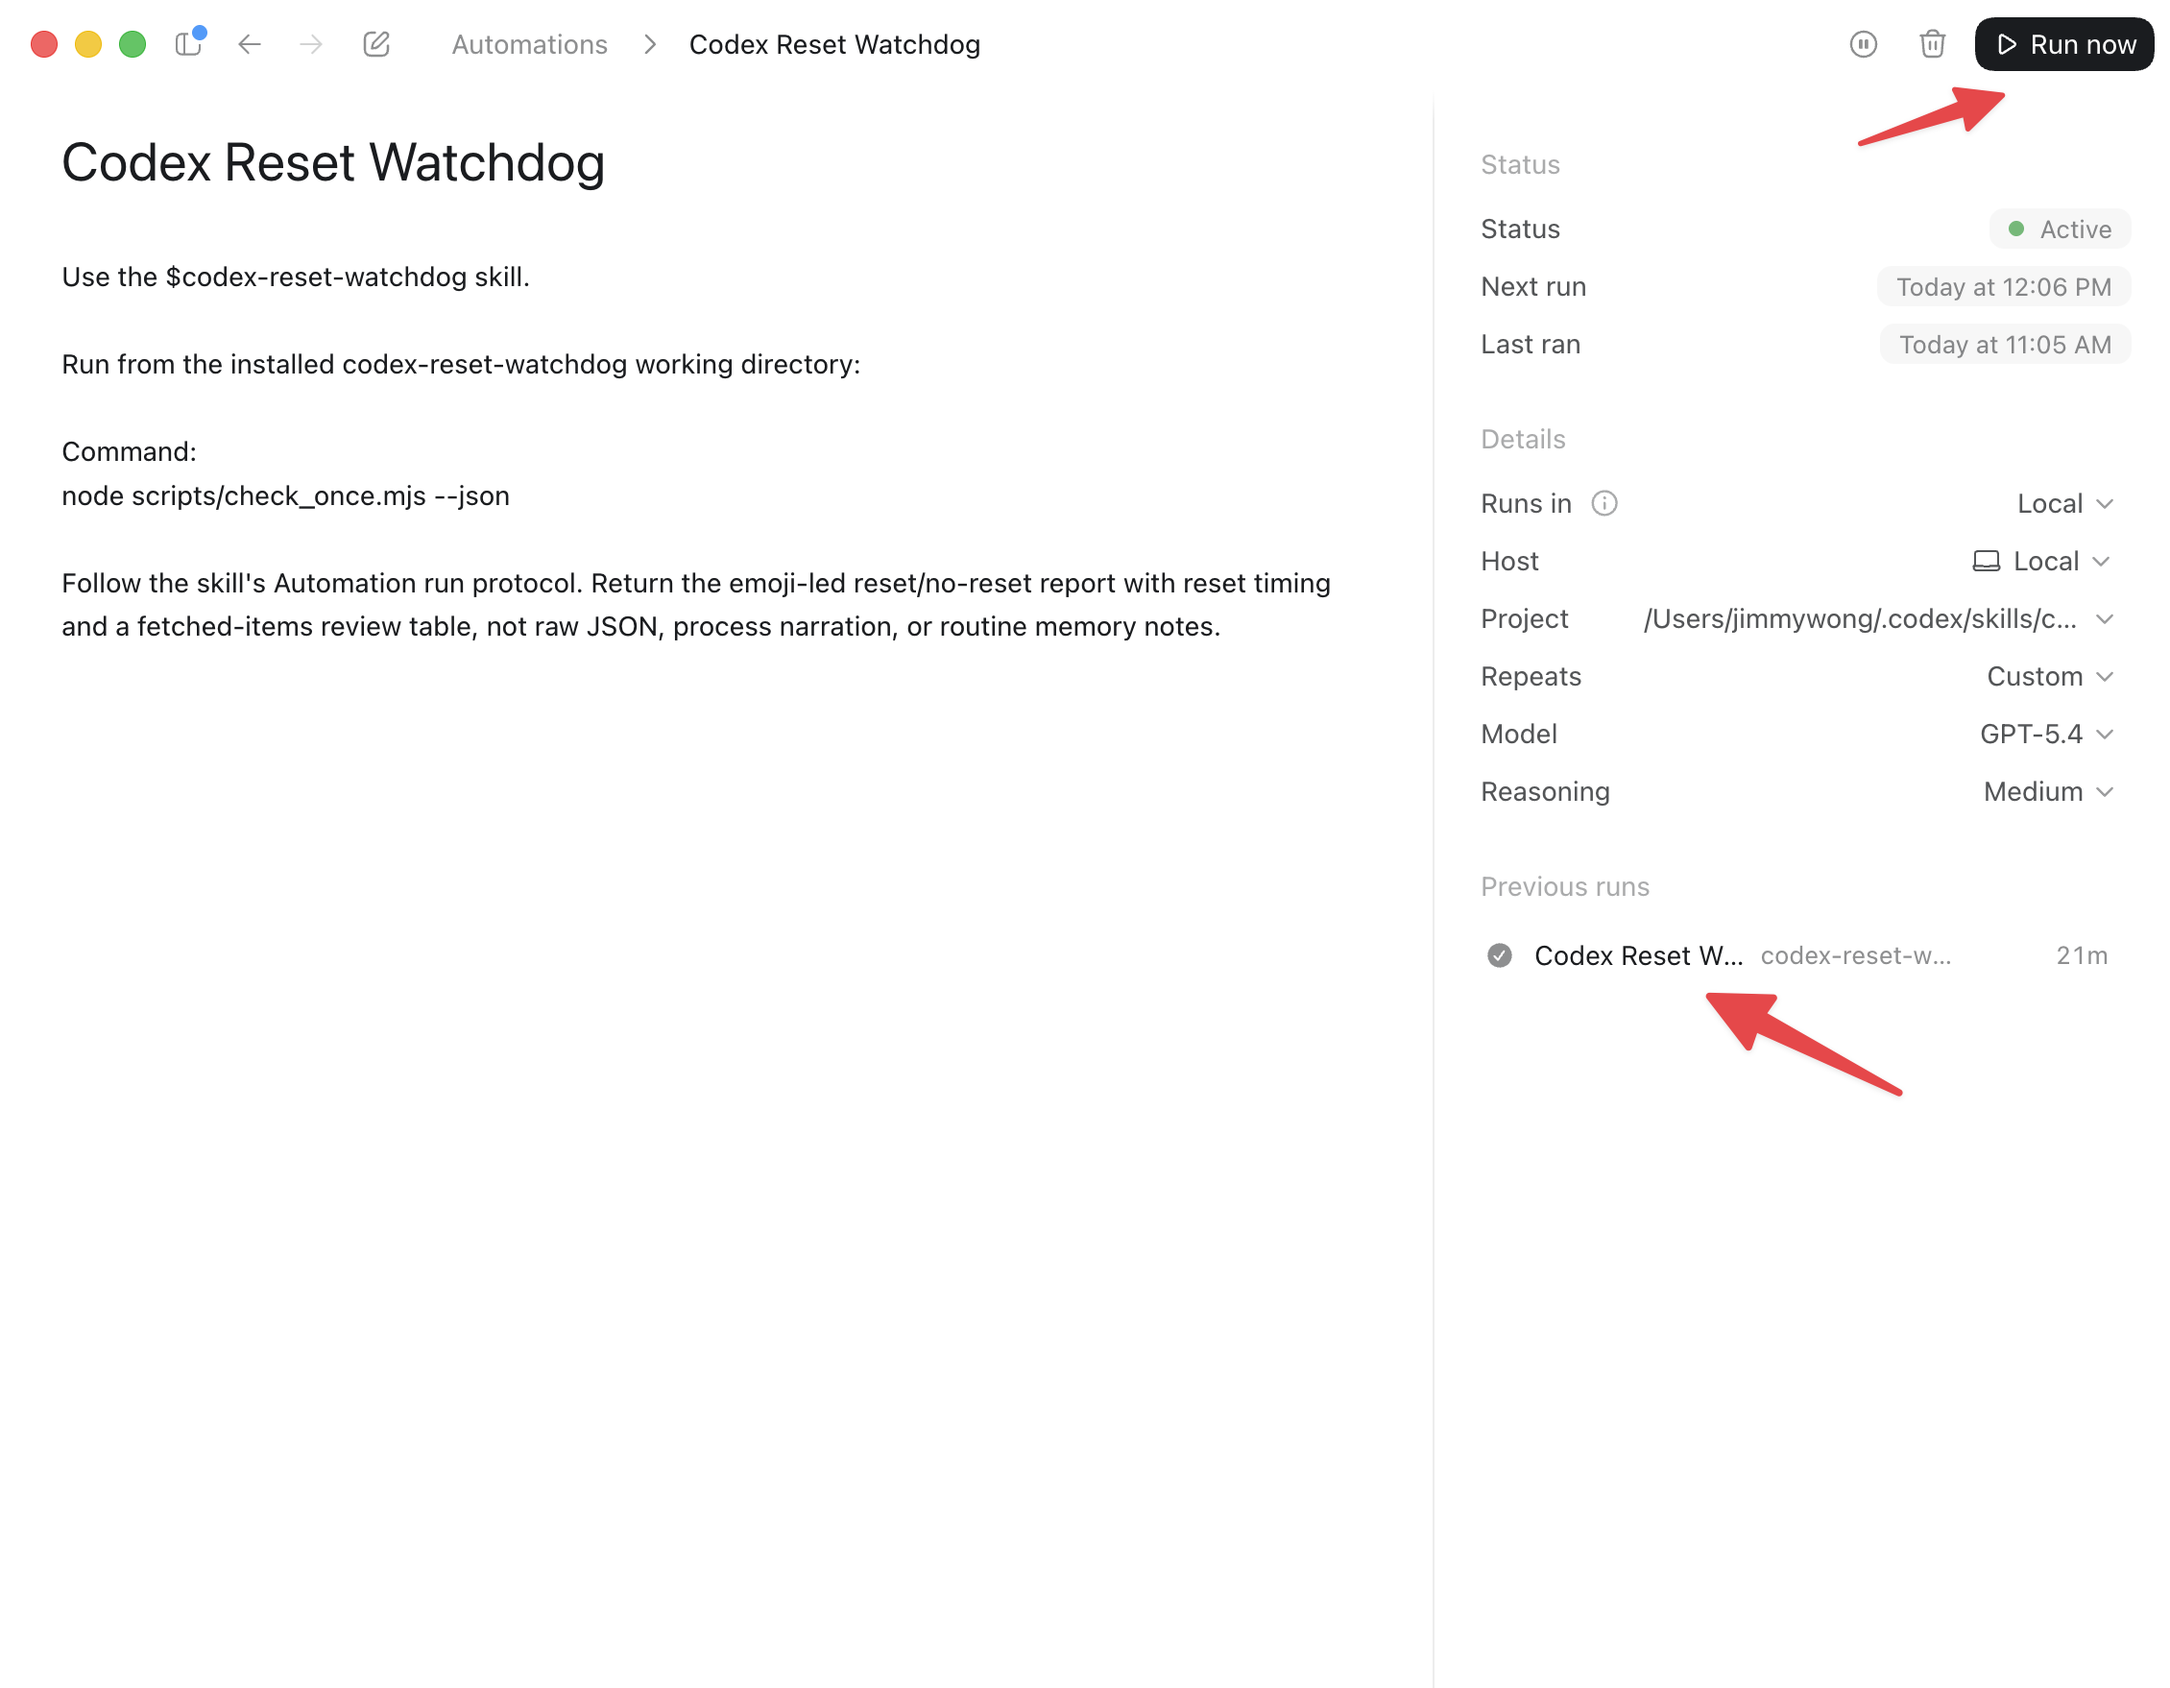
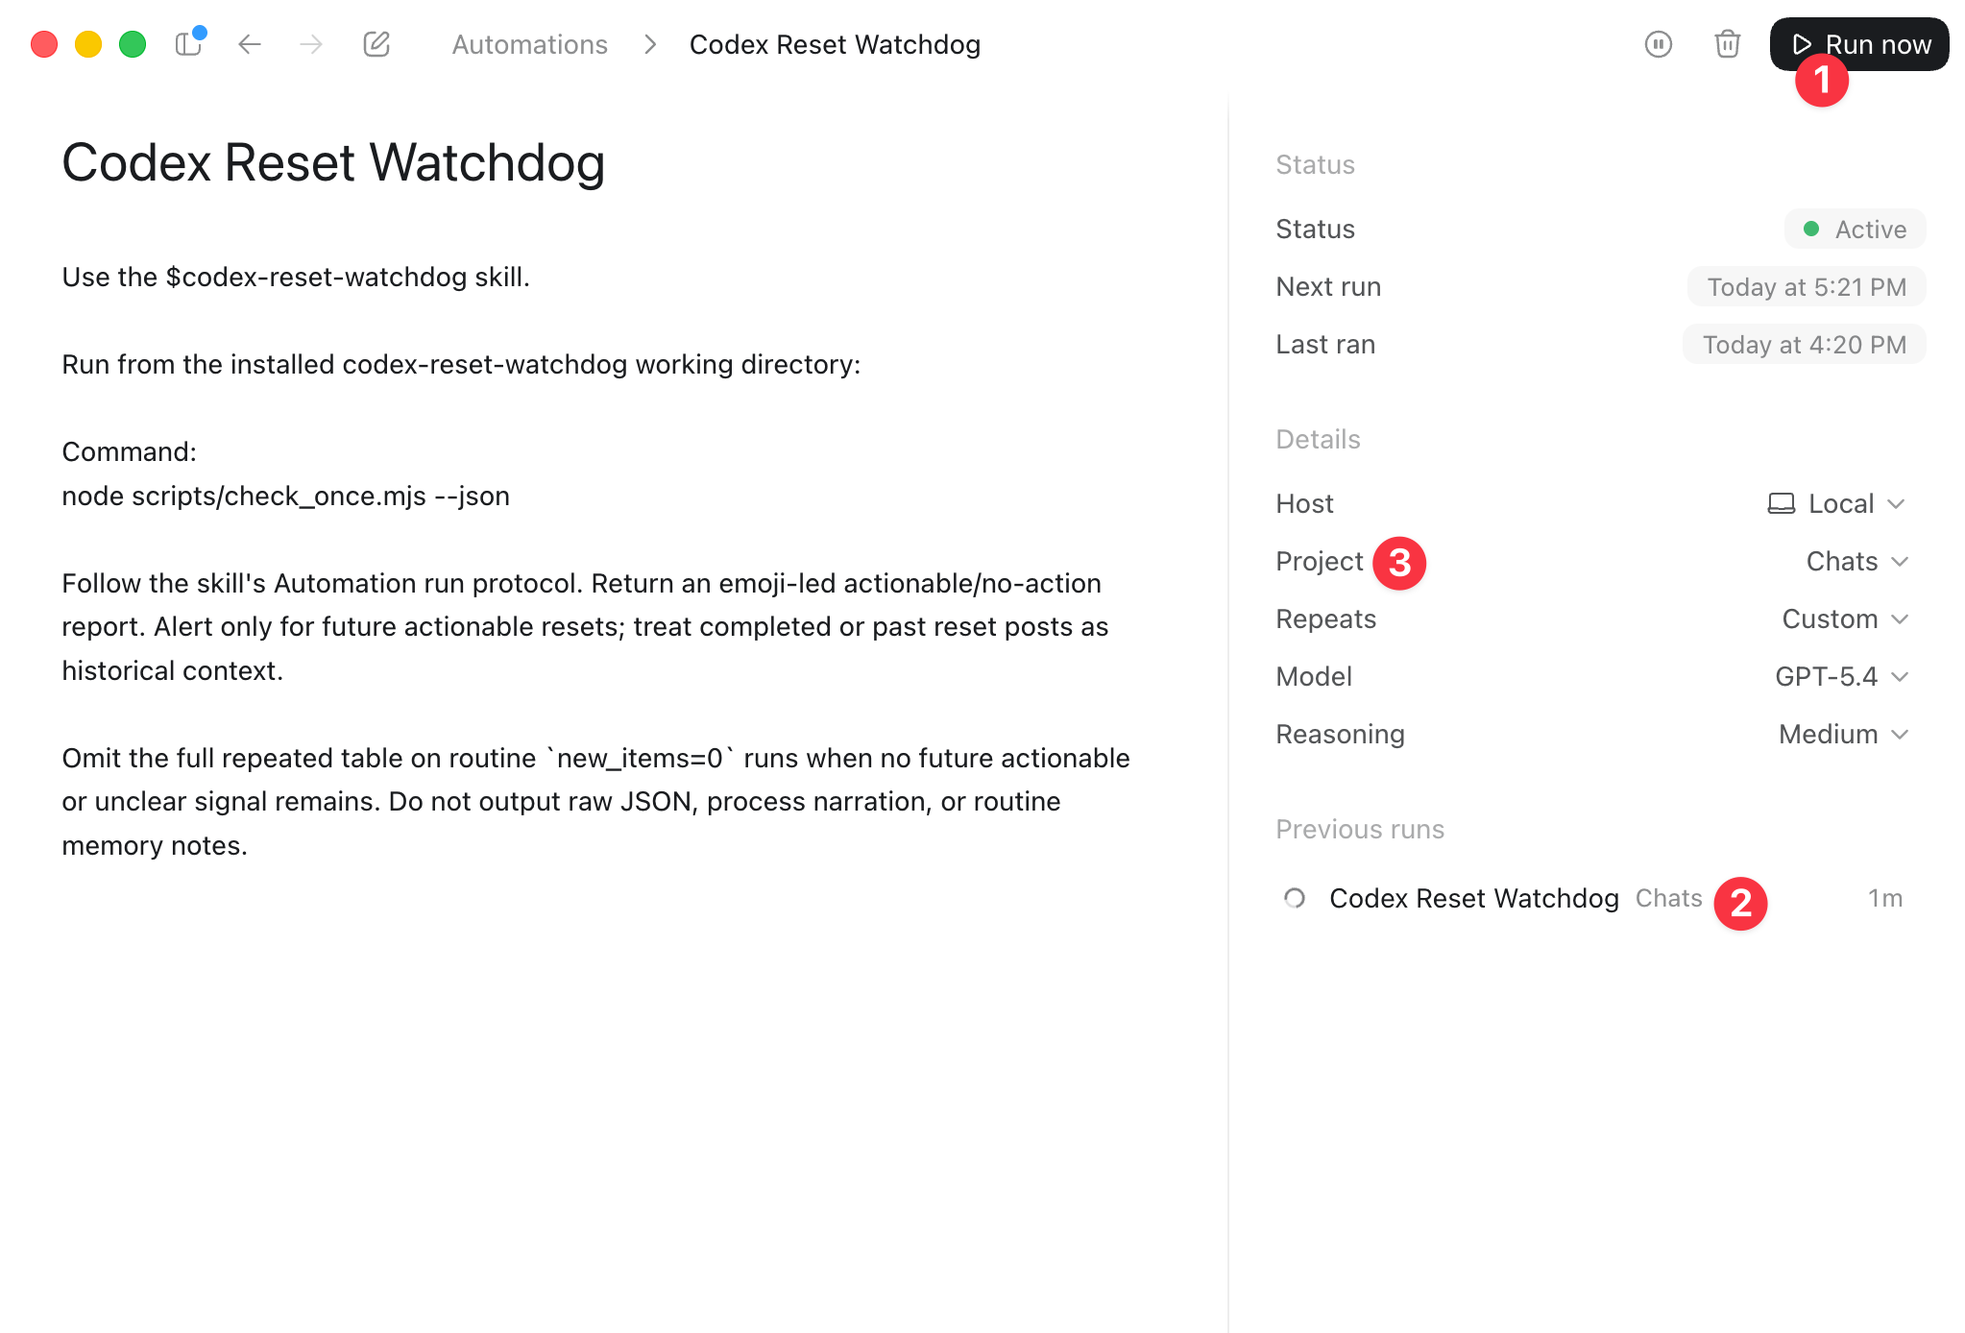
Update documentation for clarity on usage steps, operational failures, and state file handling; enhance error reporting instructions in automation scripts.

diff --git a/SKILL.md b/SKILL.md
@@ -62,7 +62,7 @@ This means:
 - the 10:30 run ignores the same item as already seen;
 - if a genuinely new reset announcement appears later with a new ID, it is eligible for a new LLM review and finding.
 
-Use a persistent `STATE_FILE_PATH`. The default is `var/state.json` inside the project because Codex sandboxed runs can write there and `var/` is git-ignored. If a user-configured home-directory state path is not writable, the script falls back to `var/state.json` and reports that in the output `state` field.
+Use a persistent `STATE_FILE_PATH`. The default is `var/state.json` inside the project because Codex sandboxed runs can write there and `var/` is git-ignored. If a user-configured home-directory state path is not writable, the script falls back to `var/state.json`; if the installed project directory itself is read-only, it falls back to an OS temp state file and reports that in the output `state` field.
 
 ## Files in this skill
 
@@ -97,7 +97,7 @@ Every scheduled run should follow this protocol:
 7. If `api_warning` is present, create one operational finding with `source_url`, `fetched`, `api_warning`, and `api_pages`.
 8. If `review_items` is non-empty, judge every item with `references/llm-judge-rubric.md`. Create a Triage finding only for new items that probably announce or schedule an actionable future Codex usage/quota/rate-limit reset, refill, restored allowance, or make-good.
 9. Use `fetched_items` for context even when `review_items` is empty because the state was already primed. Do not create Triage findings from already-seen `fetched_items`; use them only to decide whether an already-seen future signal is still actionable or has become historical.
-10. Always end with a concise reset-focused Markdown report. The first visible line must be an emoji-led banner: `🚨 Actionable Codex reset ahead: <what>. Reset timing: <future time>.`, `⚠ Possible future Codex reset needs review: <why>.`, or `✅ No actionable future Codex reset signal.`
+10. Always end with a concise Markdown report. For reset judgments, the first visible line must be one of: `🚨 Actionable Codex reset ahead: <what>. Reset timing: <future time>.`, `⚠ Possible future Codex reset needs review: <why>.`, or `✅ No actionable future Codex reset signal.` For `transient_network_error`, `network_diagnostic`, or `error`, use an operational banner such as `⚠ Watchdog source unreachable` or `⚠ Watchdog runtime error`; never call source/network/state failures a possible Codex reset.
 11. Do not read or write automation memory for routine runs. Write memory only for setup completion, configuration changes, positive reset findings, reportable operational errors, or explicit user-requested diagnostics.
 
 Run reports should be short and reviewable:
@@ -113,6 +113,7 @@ Run reports should be short and reviewable:
 - include `new_items` / `review_count` and whether a Triage finding was created;
 - mention source health only when useful;
 - avoid process narration such as checking memory, waiting for commands, choosing paths, writing memory, or restating every command.
+- do not emit progress updates while the command is running; final run output should carry the result.
 
 The Automation Test/Run Now button is just an immediate run of the same Automation prompt. It cannot be used as a special mode and cannot pass one-off arguments. The Automation prompt cannot reliably know whether a run came from the button or the schedule, so use the same reset-focused report for both.
 

diff --git a/README.zh-CN.md b/README.zh-CN.md
@@ -7,7 +7,7 @@
 
 ## 如何使用？
 
-### 复制黏贴 prompt
+### 第一步：复制黏贴 prompt，并安装 skill
 
 打开 Codex，点击 New Chats 按钮，新建一个 chat。然后直接复制黏贴以下这段 prompt。Codex 会自己安装本 skill、跑基础检查、初始化基线 state，并创建每小时运行的 Automation。
 
@@ -38,9 +38,13 @@ https://github.com/thinkingjimmy/codex-reset-watchdog
 不要贴原始 JSON，除非我明确要求。最终总结里不要叙述已经成功绕过的 schema 重试；只有创建最终失败或我要求 debug 时才提。不要开启 full access，除非窄网络权限路径不可用，并且你先解释取舍。
 ```
 
-### 测试 Automation
+### 第二步：测试并配置 Automation
 
-如果一切顺利，你可以点击 Codex 左导航的 Automations 标签，看到一个名为「Codex Reset Watchdog」的 Automation。点击它进入详情页，然后右上角的 Run Now 按钮。你应该会在 Previous Runs 看到一次新的运行记录，点开它可以看到运行的细节。Automation 的运行输出可能只留在 Automations 里，不一定出现在普通 chats；真正面向用户的提醒路径应由 Codex Automation 的通知配置承载。没有新信号时不应该创建 finding。如果你能看到 thsottiaux 最近的动态被正确解析，并且报告明确说明是否需要行动，那就说明基础流程是通的。
+如果一切顺利，你可以点击 Codex 左导航的 Automations 标签，看到一个名为「Codex Reset Watchdog」的 Automation。点击进入详情页：
+
+1. 点击右上角的 Run Now 按钮。
+2. 你应该会在 Previous Runs 看到一次新的运行记录，点开它可以看到运行的细节。
+3. Automation 的运行输出可能只留在 Automations 里，不一定出现在普通 chats。所以还需要设定一下 Project，将其设为 Chats。之后 Automation 输出的 finding 就会出现在 Chats 里，方便你平时查看。注意如果 thsottiaux 最近的动态被正确解析，并且报告里说是否需要行动了，说明基本流程是通的。
 
 [previous runs screenshot](images/previous-runs.png)
 

diff --git a/references/deployment.md b/references/deployment.md
@@ -122,6 +122,12 @@ A positive run should start with a high-signal banner:
 🚨 Actionable Codex reset ahead: limits will reset tomorrow morning. Reset timing: 2026-06-01 morning (from "tomorrow morning"; report timezone: user's local timezone).
 ```
 
+Operational failures are not reset signals. A source or runtime failure should start with an operational banner such as:
+
+```text
+⚠ Watchdog source unreachable: api.dayclaw.com DNS/HTTPS failed; no reset judgment was made.
+```
+
 Routine no-op runs should not repeat the full fetched-items table, create Triage findings, send external notifications, or write routine automation memory. The concise report is safe for Automation run logs and Test/Run Now results. Test/Run Now is only an immediate run of the same Automation prompt; it is not a special mode and cannot pass per-run parameters.
 
 ## Public source model
@@ -184,7 +190,7 @@ Use the default persistent state file path:
 STATE_FILE_PATH=var/state.json
 ```
 
-`var/` is ignored by git and writable in Codex sandboxed runs. If the file is deleted, the script loses dedupe memory and may reprocess old items. If you set a custom home-directory path and Codex cannot write it, the script falls back to `var/state.json` and reports that in the `state` field.
+`var/` is ignored by git and writable in Codex sandboxed runs. If the file is deleted, the script loses dedupe memory and may reprocess old items. If you set a custom home-directory path and Codex cannot write it, the script falls back to `var/state.json`; if the installed project directory itself is read-only, it falls back to an OS temp state file and reports that in the `state` field.
 
 Leave `REPORT_TIMEZONE` blank to use the Automation runtime/user timezone. Set it only when the user explicitly wants a fixed IANA timezone such as `America/Los_Angeles`.
 

diff --git a/references/automation-prompt.md b/references/automation-prompt.md
@@ -7,4 +7,8 @@ node scripts/check_once.mjs --json
 
 Follow the skill's Automation run protocol. Return an emoji-led actionable/no-action report. Alert only for future actionable resets; treat completed or past reset posts as historical context.
 
+Do not emit progress narration while running. Do not inspect or update automation memory during routine runs. If the initial working directory does not contain `scripts/check_once.mjs`, silently switch to the configured Automation working directory that does.
+
+If JSON status is `transient_network_error`, `network_diagnostic`, or `error`, treat it as a watchdog operational issue, not a possible Codex reset. Never use the reset banners for source/network/state failures.
+
 Omit the full repeated table on routine `new_items=0` runs when no future actionable or unclear signal remains. Do not output raw JSON, process narration, or routine memory notes.
